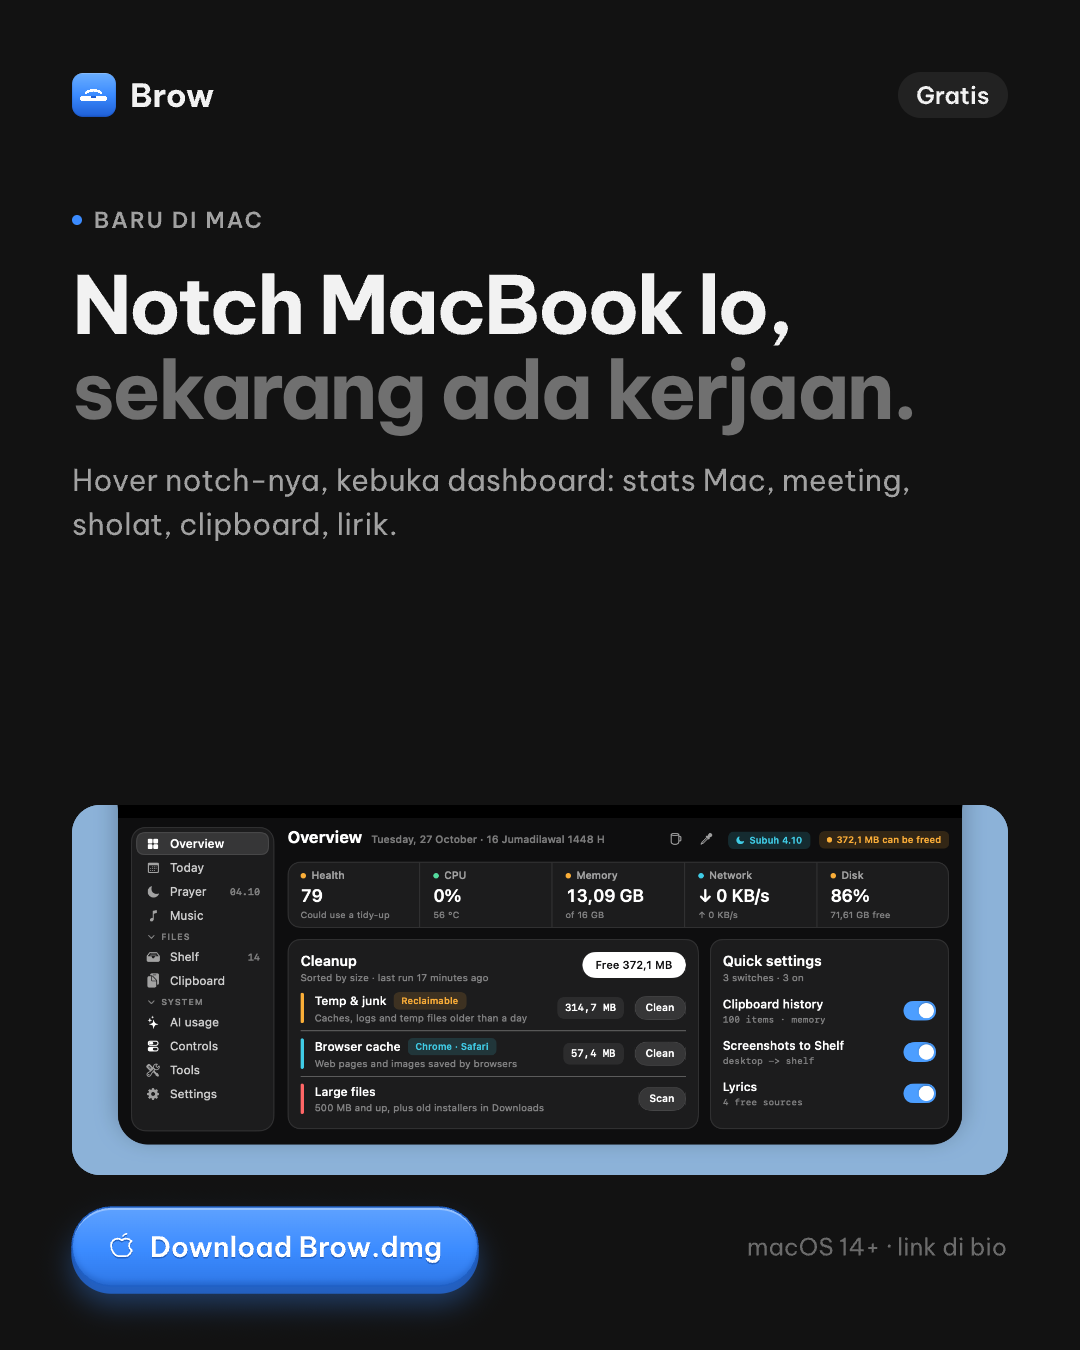
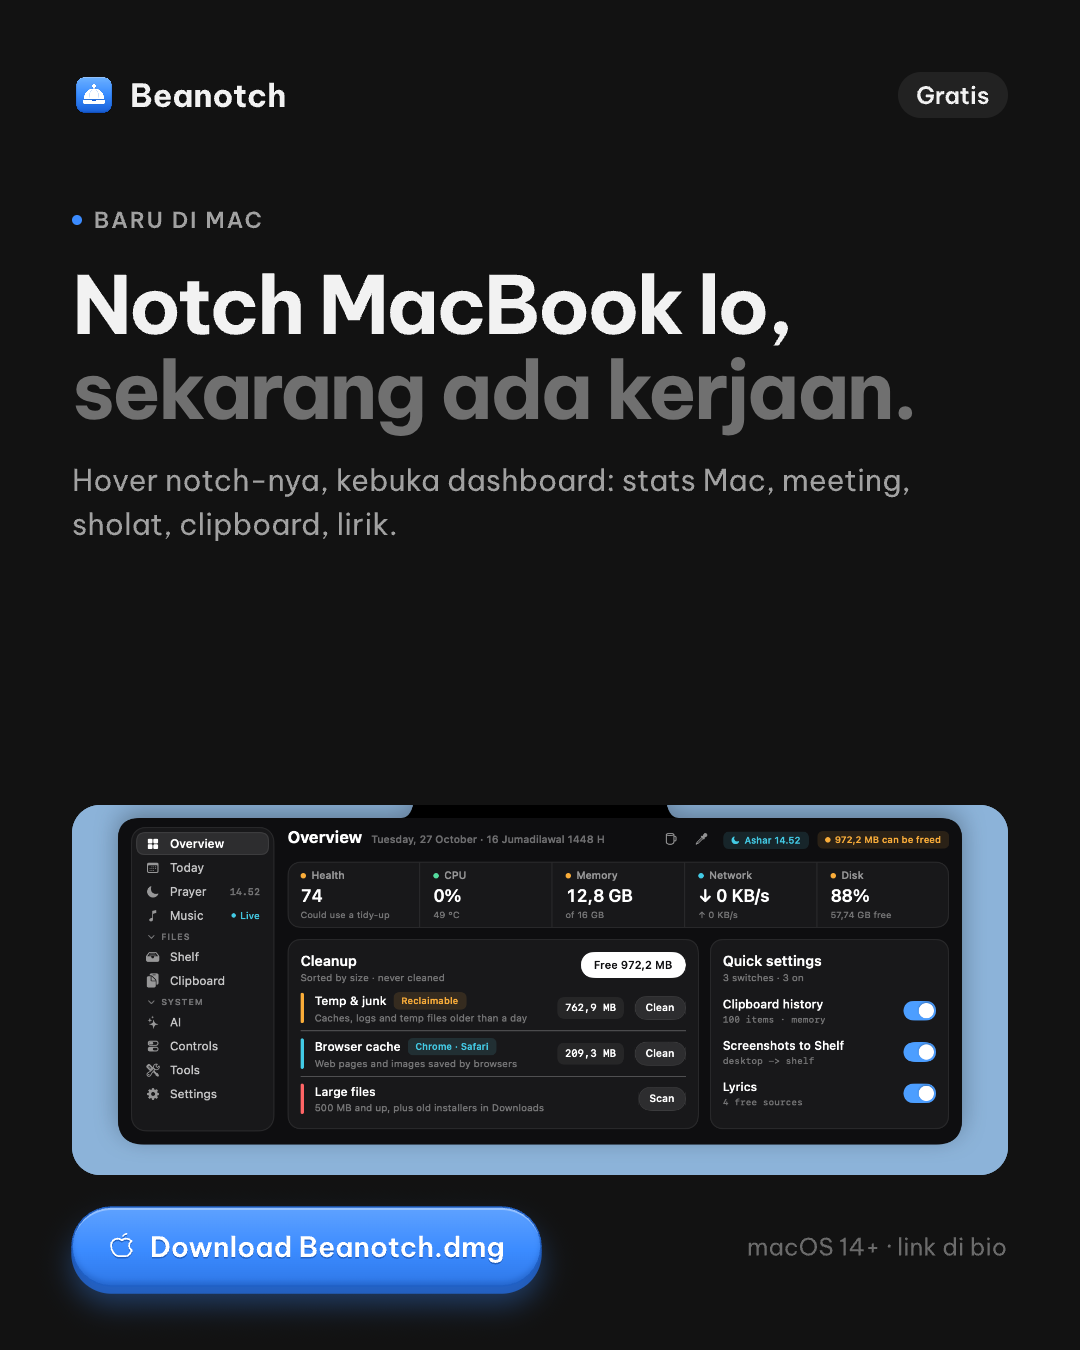
feat(build): ship the disk image as beanotch.dmg

diff --git a/docs/index.html b/docs/index.html
@@ -404,7 +404,7 @@ nav.scrolled { box-shadow: 0 1px 0 var(--border); }
     <div class="nav-right">
       <button class="icon-btn" id="themeBtn" aria-label="Switch light or dark"><i data-lucide="moon"></i></button>
       <a class="btn btn-ghost btn-sm" href="https://github.com/giankbr/beanie-notch"><i data-lucide="github"></i>Star on GitHub</a>
-      <a class="btn btn-primary btn-sm" href="https://github.com/giankbr/beanie-notch/releases/latest"><i data-lucide="apple"></i>Get Beanie</a>
+      <a class="btn btn-primary btn-sm" href="https://github.com/giankbr/beanie-notch/releases/latest"><i data-lucide="apple"></i>Get Beanotch</a>
     </div>
   </div>
 </nav>
@@ -596,11 +596,11 @@ nav.scrolled { box-shadow: 0 1px 0 var(--border); }
   <div class="wrap">
     <div class="card cta">
       <div class="left">
-        <span class="eyebrow">Get Beanie</span>
+        <span class="eyebrow">Get Beanotch</span>
         <h2>Give your notch<em>a job.</em></h2>
         <p class="sub">Free and open source. A 3.6 MB universal app for macOS 14 or later.</p>
         <div class="cta-row" style="justify-content:flex-start">
-          <a class="btn btn-primary" href="https://github.com/giankbr/beanie-notch/releases/latest"><i data-lucide="apple"></i>Download Beanie.dmg</a>
+          <a class="btn btn-primary" href="https://github.com/giankbr/beanie-notch/releases/latest/download/Beanotch.dmg"><i data-lucide="apple"></i>Download Beanotch.dmg</a>
           <a class="btn btn-ghost" href="https://github.com/giankbr/beanie-notch"><i data-lucide="github"></i>View on GitHub</a>
         </div>
         <div class="steps">
@@ -627,7 +627,7 @@ nav.scrolled { box-shadow: 0 1px 0 var(--border); }
       <div><h4>Beanotch</h4><p>The notch, finally earning its place.</p></div>
       <div class="cta-row">
         <a class="btn btn-ghost" href="https://github.com/giankbr/beanie-notch"><i data-lucide="github"></i>Star on GitHub</a>
-        <a class="btn btn-primary" href="https://github.com/giankbr/beanie-notch/releases/latest"><i data-lucide="apple"></i>Download Beanie.dmg</a>
+        <a class="btn btn-primary" href="https://github.com/giankbr/beanie-notch/releases/latest/download/Beanotch.dmg"><i data-lucide="apple"></i>Download Beanotch.dmg</a>
       </div>
     </div>
     <div class="cols">

diff --git a/tools/make_dmg_preview.swift b/tools/make_dmg_preview.swift
@@ -45,7 +45,7 @@ for (i, color) in [NSColor(srgbRed: 1, green: 0.37, blue: 0.34, alpha: 1), NSCol
 }
 let titleStyle = NSMutableParagraphStyle()
 titleStyle.alignment = .center
-NSAttributedString(string: "Beanie \(version)", attributes: [.font: NSFont.systemFont(ofSize: 13, weight: .semibold),
+NSAttributedString(string: "Beanotch \(version)", attributes: [.font: NSFont.systemFont(ofSize: 13, weight: .semibold),
                                                       .foregroundColor: NSColor(white: 0.85, alpha: 1), .paragraphStyle: titleStyle])
     .draw(in: NSRect(x: windowRect.minX, y: windowRect.maxY - titleBar + 6, width: windowRect.width, height: 18))
 

diff --git a/README.md b/README.md
@@ -116,7 +116,7 @@ Beanie is written in Swift and SwiftUI with no third-party dependencies. The dow
 
 ## Install
 
-1. Download `Beanie.dmg` from [Releases](../../releases), open it, and drag Beanie into Applications.
+1. Download `Beanotch.dmg` from [Releases](../../releases), open it, and drag Beanie into Applications.
 
    ![The Beanie disk image](docs/install.png)
 
@@ -145,7 +145,7 @@ macOS asks for access only when a feature needs it:
 The build needs Xcode, which provides the macOS SDK for the Now Playing helper.
 
 ```bash
-./build.sh                   # → dist/Beanie.app and dist/Beanie.dmg (laid out with dmgbuild, set up in .build/ on first run)
+./build.sh                   # → dist/Beanie.app and dist/Beanotch.dmg (laid out with dmgbuild, set up in .build/ on first run)
 VERSION=1.2.0 ./build.sh     # set the version
 ```
 
